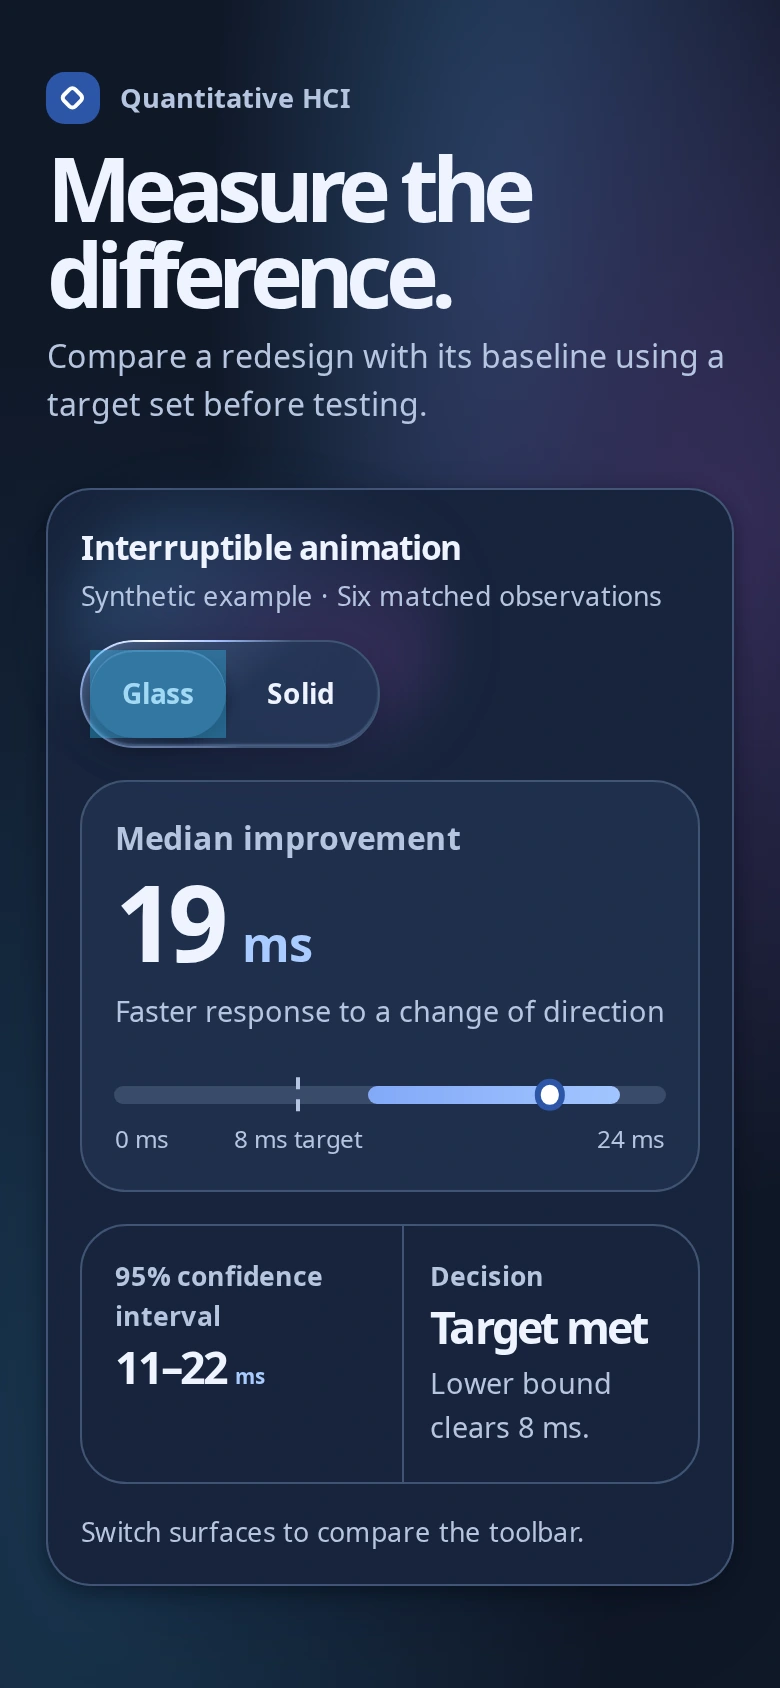
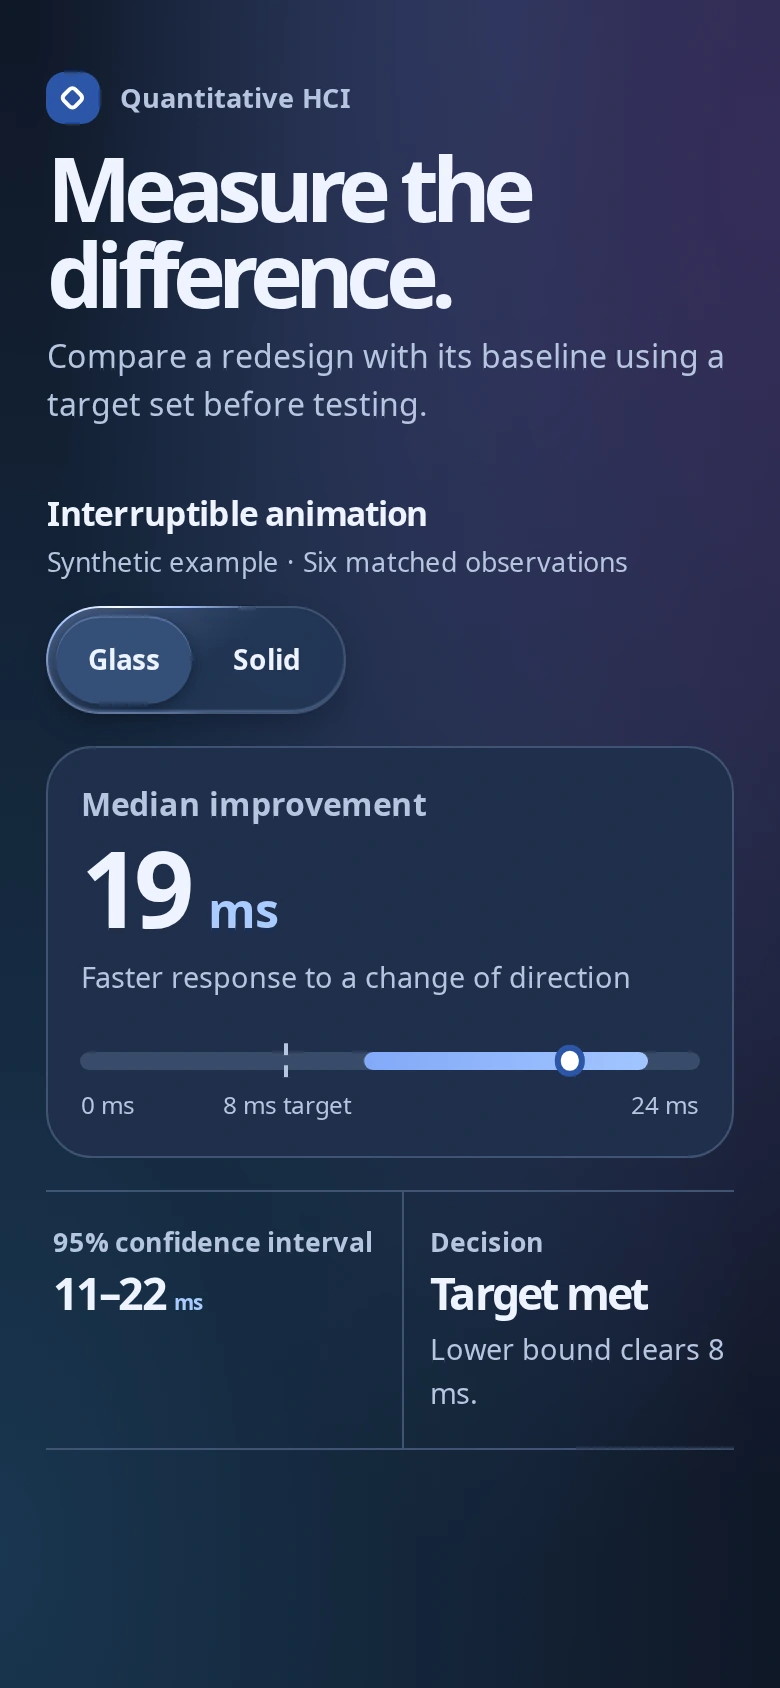
Remove background boxes from the Liquid Glass scorecard

diff --git a/docs/hci/examples/spotlight-glass.html b/docs/hci/examples/spotlight-glass.html
@@ -13,8 +13,7 @@
       --muted: #4a5671;
       --accent: #285ba8;
       --line: #c1cce0;
-      --paper: #f7f9fe;
-      --rail: #e9effa;
+      --rail: #f4f7fd;
       --track: #dce5f5;
       --range-start: #6485dc;
       --range-end: #365cb9;
@@ -25,9 +24,9 @@
       --selection: #f9fbffe8;
       --focus: #144fa7;
       --shadow: #21365e25;
-      --glow-1: #b6d1f9;
-      --glow-2: #dacbf5;
-      --glow-3: #d2e8fa;
+      --glow-1: #d1e2fc;
+      --glow-2: #e4d9f6;
+      --glow-3: #dbeafa;
       font: 100%/1.5 system-ui, sans-serif;
     }
 
@@ -39,9 +38,9 @@
       min-height: 100svh;
       padding: clamp(2.25rem, 5vw, 4.25rem) clamp(1rem, 6vw, 5rem) 3rem;
       background:
-        radial-gradient(ellipse at 92% 31%, var(--glow-2), transparent 41%),
-        radial-gradient(ellipse at 66% 15%, var(--glow-1), transparent 42%),
-        radial-gradient(ellipse at 10% 87%, var(--glow-3), transparent 54%),
+        radial-gradient(ellipse at 98% 10%, var(--glow-2), transparent 62%),
+        radial-gradient(ellipse at 66% 0%, var(--glow-1), transparent 66%),
+        radial-gradient(ellipse at 0% 92%, var(--glow-3), transparent 69%),
         var(--canvas);
     }
 
@@ -87,38 +86,15 @@
       font-size: clamp(1rem, 1.6vw, 1.25rem);
     }
 
-    .comparison {
-      margin-top: clamp(1.85rem, 5vw, 3.5rem);
-      padding: clamp(1rem, 3vw, 2rem);
-      border: 1px solid var(--rim);
-      border-radius: clamp(1.4rem, 4vw, 2.3rem);
-      background: var(--paper);
-      box-shadow: 0 24px 60px -36px var(--shadow), 0 3px 9px var(--shadow);
-    }
+    .comparison { margin-top: clamp(1.85rem, 5vw, 3.5rem); }
 
     .toolbar {
-      position: relative;
-      isolation: isolate;
       display: flex;
       align-items: center;
       justify-content: space-between;
       flex-wrap: wrap;
       gap: .75rem 1rem;
       margin-bottom: clamp(1rem, 3vw, 1.65rem);
-    }
-
-    .toolbar::before {
-      position: absolute;
-      z-index: -1;
-      inset: -.75rem -.75rem -.5rem auto;
-      width: min(100%, 12rem);
-      border-radius: 999px;
-      filter: blur(12px);
-      background:
-        radial-gradient(ellipse at 74% 60%, var(--glow-2), transparent 68%),
-        radial-gradient(ellipse at 27% 38%, var(--glow-1), transparent 62%);
-      pointer-events: none;
-      content: "";
     }
 
     h2 { font-size: 1.05rem; font-weight: 700; letter-spacing: -.025em; }
@@ -214,7 +190,7 @@
     .results {
       display: grid;
       grid-template-columns: minmax(0, 1.8fr) minmax(13rem, 1fr);
-      gap: 1rem;
+      gap: clamp(1rem, 4vw, 3rem);
     }
 
     .measure {
@@ -276,19 +252,17 @@
     .detail {
       display: grid;
       align-content: center;
-      border: 1px solid var(--line);
-      border-radius: 1.45rem;
-      padding: 0 clamp(1rem, 2vw, 1.45rem);
+      border-top: 1px solid var(--line);
+      border-bottom: 1px solid var(--line);
+      padding: 0 .2rem;
     }
 
     .detail > div { padding: 1rem 0; }
     .detail > div + div { border-top: 1px solid var(--line); }
     .detail .label { font-size: .83rem; }
     .detail .value { font-size: clamp(1.6rem, 3vw, 2.25rem); }
-    .caption { margin-top: .9rem; color: var(--muted); font-size: .84rem; }
 
     @media (max-width: 42rem) {
-      .toolbar::before { inset-inline: -.5rem auto; }
       .results { grid-template-columns: minmax(0, 1fr); }
       .detail { grid-template-columns: repeat(2, minmax(0, 1fr)); gap: .8rem; }
       .detail .value { font-size: 1.4rem; }
@@ -307,7 +281,6 @@
         --muted: #b6c5df;
         --accent: #a9cbff;
         --line: #405473;
-        --paper: #17243c;
         --rail: #202f4c;
         --track: #3a4b69;
         --range-start: #82a9f8;
@@ -326,7 +299,7 @@
     }
 
     @media (forced-colors: active) {
-      main, .comparison, .measure, .detail, .surface-switch:has(#glass:checked) {
+      main, .measure, .detail, .surface-switch:has(#glass:checked) {
         background: Canvas;
         border-color: CanvasText;
         box-shadow: none;
@@ -334,7 +307,7 @@
         backdrop-filter: none;
       }
 
-      .toolbar::before, .surface-switch:has(#glass:checked)::before, .plot { display: none; }
+      .surface-switch:has(#glass:checked)::before, .plot { display: none; }
       .surface-switch input:checked + span { outline: 2px solid Highlight; outline-offset: -2px; }
       .surface-switch input:focus-visible + span { outline-color: Highlight; outline-offset: 2px; }
     }
@@ -390,7 +363,6 @@
             </div>
           </dl>
         </div>
-        <p class="caption">Switch surfaces to compare the toolbar.</p>
       </section>
     </div>
   </main>

diff --git a/docs/hci/models/audit-spotlight.py b/docs/hci/models/audit-spotlight.py
@@ -213,7 +213,7 @@ def audit_desktop(page, image_class):
     page.keyboard.press("ArrowLeft")
     keyboard_returns_to_glass = glass.is_checked()
 
-    backdrop = page.add_style_tag(content=f".toolbar::before {{ background: {BRIGHT_BACKDROP}; filter: none; }}")
+    backdrop = page.add_style_tag(content=f".toolbar {{ background: {BRIGHT_BACKDROP}; }}")
     try:
         contrast["glass_bright_backdrop"] = sample_contrast(page, image_class, ".surface-switch")
     finally:

diff --git a/docs/hci/examples/README.md b/docs/hci/examples/README.md
@@ -6,8 +6,8 @@ Open [spotlight-glass.html](spotlight-glass.html) locally. The toolbar starts in
 
 | Layer | Treatment |
 | --- | --- |
-| Background | Soft colour underlays give the glass something to pick up. |
-| Content | Solid charts, tables and reading surfaces keep text and metrics consistent across backdrops. |
+| Background | Continuous colour across the page gives the glass something to pick up. |
+| Content | Give the chart one solid surface and let supporting figures sit on the page with simple dividers. |
 | Controls | A tinted translucent fill, backdrop blur, inset rim and quiet shadow give controls depth. Match the radii of nested elements to keep the edges aligned. |
 | Spotlight | A border-only highlight tracks a mouse. It stays static with touch or reduced motion and disappears in solid and reduced-transparency modes. |
 | Fallback | Solid fill preserves legibility without blur support. Native controls, a visible focus ring and explicit labels preserve the same actions in forced colours. |
@@ -33,9 +33,9 @@ Use `--profile desktop_dark` to run one profile or `--executable /path/to/chromi
 
 | Check | Chromium 153 result |
 | --- | --- |
-| Desktop, light and dark | Minimum sampled text contrast was 5.40:1 in light and 7.44:1 in dark across the normal surface states. Keyboard switching preserved layout and showed a 2 CSS px focus ring. |
+| Desktop, light and dark | Minimum sampled text contrast was 5.28:1 in light and 7.12:1 in dark across the normal surface states. Keyboard switching preserved layout and showed a 2 CSS px focus ring. |
 | Dark toolbar over a bright test backdrop | The minimum sampled toolbar-label contrast was 7.23:1. |
-| Touch at 320 CSS px | Both targets were 68 × 44 CSS px. Minimum sampled text contrast was 6.21:1. Both choices worked without horizontal overflow. |
+| Touch at 320 CSS px | Both targets were 68 × 44 CSS px. Minimum sampled text contrast was 6.74:1. Both choices worked without horizontal overflow. |
 | 24 pointer events in one frame | Two style updates applied the latest coordinates. |
 | Reduced motion, reduced transparency and forced colours | The spotlight stopped tracking. Blur and glow were disabled for reduced transparency and forced colours. Metric text remained visible. |
 
